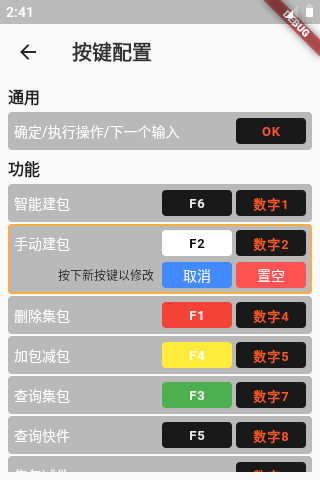
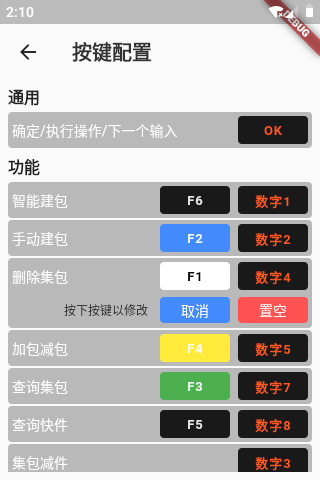
.

Changed region(s): [[0.0, 0.2188, 1.0, 1.0], [0.8438, 0.0, 0.9062, 0.0312], [0.0625, 0.0, 0.125, 0.0312]]

diff --git a/lib/screens/settings/key_binding/key_binding_row.dart b/lib/screens/settings/key_binding/key_binding_row.dart
@@ -1,4 +1,4 @@
-import 'package:flutter/cupertino.dart';
+import 'package:flutter/cupertino.dart';
 import 'package:flutter/material.dart';
 import 'package:sorting/input/bindings/action.dart';
 import 'package:sorting/input/bindings/inputkey.dart';
@@ -78,18 +78,12 @@ class KeyBindingRowState extends State<KeyBindingRow> {
       child: AnimatedContainer(
         duration: Duration(milliseconds: 500),
         curve: Curves.easeOutQuint,
-        height: widget.hasFocus ? 70 : 38,
+        height: widget.hasFocus ? 70 : 36,
         margin: EdgeInsets.only(bottom: 2),
         padding: EdgeInsets.symmetric(vertical: 4, horizontal: 4),
         decoration: BoxDecoration(
           color: Colors.black26,
           borderRadius: BorderRadius.all(Radius.circular(4)),
-          border: Border.all(
-            color: widget.hasFocus
-                ? Colors.orangeAccent
-                : Colors.white.withOpacity(0),
-            width: 2,
-          ),
         ),
         child: SingleChildScrollView(
           child: Column(
@@ -102,9 +96,12 @@ class KeyBindingRowState extends State<KeyBindingRow> {
                     child: Row(
                       mainAxisAlignment: MainAxisAlignment.end,
                       children: <Widget>[
-                        ..._keyButtons.map((btn) => Padding(
-                          padding: EdgeInsets.only(left: 4),
-                          child: btn,)),
+                        ..._keyButtons.map((btn) =>
+                            Padding(
+                              padding: EdgeInsets.only(left: 8),
+                              child: btn,
+                            )
+                        ),
                       ],
                     ),
                   )
@@ -112,24 +109,23 @@ class KeyBindingRowState extends State<KeyBindingRow> {
               ),
               if (widget.hasFocus)
                 Container(
-                  height: 30,
-                  margin: EdgeInsets.only(top: 4),
-                  padding: EdgeInsets.symmetric(vertical: 2),
+                  height: 28,
+                  margin: EdgeInsets.only(top: 6),
                   child: ButtonBar(
                     buttonPadding: EdgeInsets.zero,
                     buttonHeight: 26,
                     buttonMinWidth: 70,
                     children: [
                       if (widget.hasFocus)
-                        Text('按下新按键以修改', style: TextStyle(fontSize: 12),),
-                      Padding(padding: EdgeInsets.symmetric(horizontal: 4),),
+                        Text('按下按键以修改', style: TextStyle(fontSize: 12),),
+                      Padding(padding: EdgeInsets.symmetric(horizontal: 6),),
                       FlatButton(
                         color: Theme.of(context).primaryColor,
                         textColor: Colors.white,
                         child: Text('取消'),
                         onPressed: onCancelPressed,
                       ),
-                      Padding(padding: EdgeInsets.symmetric(horizontal: 2),),
+                      Padding(padding: EdgeInsets.symmetric(horizontal: 4),),
                       FlatButton(
                         color: Colors.redAccent,
                         textColor: Colors.white,
@@ -169,8 +165,8 @@ class KeyBindingRowState extends State<KeyBindingRow> {
     }
 
     KeyCombination keyCombination = KeyCombination.fromRawKeyEvent(event);
-    if (keyCombination == null) {
-      Messager.ok('无效按键');
+    if (keyCombination.keys[0] == InputKey.None) {
+      Messager.ok('不支持的按键');
       return;
     }
     _bindTargetState().updateKeyCombination(keyCombination);

diff --git a/lib/input/bindings/action.dart b/lib/input/bindings/action.dart
@@ -12,10 +12,10 @@ class GlobalAction extends BindingAction {
   static const ItemAlloc = GlobalAction(4, '加包减包');
   static const PackageSearch = GlobalAction(5, '查询集包');
   static const ItemSearch = GlobalAction(6, '查询快件');
-  static const ItemAllocDelete = GlobalAction(4, '集包减件');
-  static const ItemAllocAdd = GlobalAction(5, '集包加件');
-  static const ItemAllocSearch = GlobalAction(6, '查询集包快件操作记录');
-  static const OK = GlobalAction(7, '确定/执行操作/下一个输入');
+  static const ItemAllocDelete = GlobalAction(7, '集包减件');
+  static const ItemAllocAdd = GlobalAction(8, '集包加件');
+  static const ItemAllocSearch = GlobalAction(9, '查询集包快件操作记录');
+  static const OK = GlobalAction(100, '确定/执行操作/下一个输入');
 
   const GlobalAction(int code, String text) : super(code, text);
 }

diff --git a/lib/screens/settings/key_binding/key_button.dart b/lib/screens/settings/key_binding/key_button.dart
@@ -34,6 +34,7 @@ class KeyButtonState extends State<KeyButton> {
 
   @override
   Widget build(BuildContext context) {
+    //与kaicom w571的实体按键颜色相同
     Color backgroundColor = Colors.black87;
     Color textColor = Colors.white.withOpacity(0.9);
     InputKey key = _keyBinding.keyCombination.keys[0]; // 目前只支持单个键
@@ -63,7 +64,7 @@ class KeyButtonState extends State<KeyButton> {
       duration: Duration(milliseconds: 150),
       curve: Curves.easeOutQuint,
       width: 70,
-      height: 26,
+      height: 28,
       decoration: BoxDecoration(
         color: _isBinding ? Colors.white : backgroundColor,
         borderRadius: BorderRadius.all(Radius.circular(4)),

diff --git a/lib/input/bindings/key_combination.dart b/lib/input/bindings/key_combination.dart
@@ -92,7 +92,7 @@ class KeyCombination {
     } else if (LogicalKeyboardKey.enter.keyId == key.keyId) {
       return InputKey.Enter;
     } else {
-      return KAICOM_W571_KEY_MAP[key.keyId];
+      return KAICOM_W571_KEY_MAP[key.keyId] ?? InputKey.None;
     }
   }
 }

diff --git a/README.md b/README.md
@@ -25,6 +25,7 @@
 ![](doc/screenshots/settings_general.png)
 ![](doc/screenshots/key_binding.png)
 
-## 适配
-已适配 `kaicom-w571`
+
+## 兼容适配设备
+*kaicom-w571*  
 ![](doc/screenshots/kaicomw571.png)
